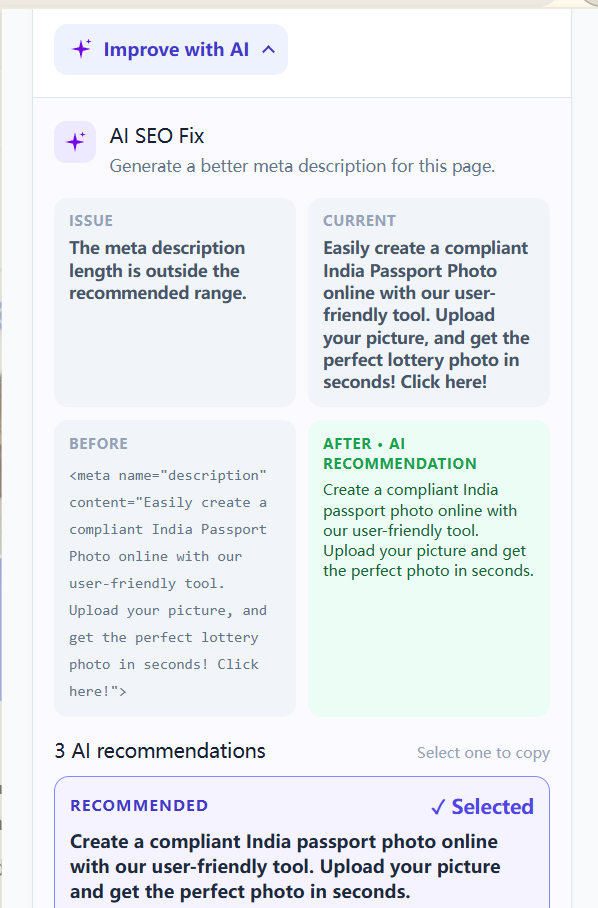
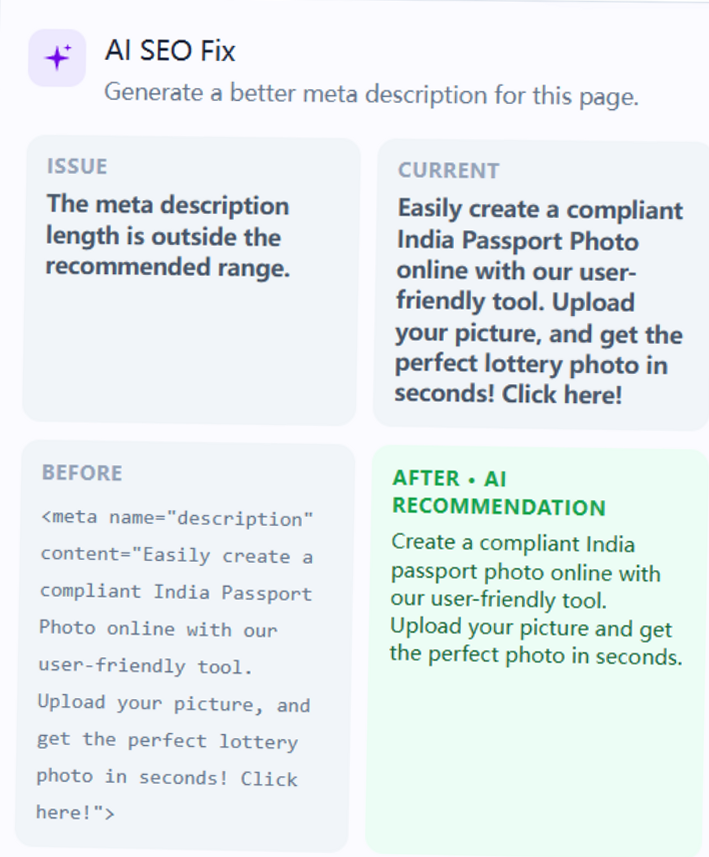
fix: replace homepage proof images

Changed region(s): [[0.0, 0.0, 1.0, 1.0], [0.6923, 0.8191, 0.9331, 0.8495], [0.0602, 0.0607, 0.0903, 0.091]]

diff --git a/website/src/app/(site)/page.tsx b/website/src/app/(site)/page.tsx
@@ -11,9 +11,9 @@ const steps = [['01', 'Scan the page', 'Confirm the active page and get a local 
 export default function Home() {
   const c = getCopy();
   return <main>
-    <section className="hero"><div className="wrap hero-grid"><div className="hero-copy-block"><p className="eyebrow">{c.eyebrow}</p><h1>Find the SEO issues holding your page back.</h1><p className="hero-copy">{c.homeIntro}</p><div className="actions"><StoreCta /><a className="button button-secondary" href="#how-it-works">See how it works</a></div><p className="note">{c.homeSub}</p></div><figure className="product-shot"><Image src="/screenshots/ai-seo-fix.png" alt="SEO Copilot showing an SEO issue and an AI title recommendation" width={598} height={908} priority /><figcaption>Real AI Fix result state</figcaption></figure></div></section>
+    <section className="hero"><div className="wrap hero-grid"><div className="hero-copy-block"><p className="eyebrow">{c.eyebrow}</p><h1>Find the SEO issues holding your page back.</h1><p className="hero-copy">{c.homeIntro}</p><div className="actions"><StoreCta /><a className="button button-secondary" href="#how-it-works">See how it works</a></div><p className="note">{c.homeSub}</p></div><figure className="product-shot"><Image src="/screenshots/ai-seo-fix.png" alt="SEO Copilot showing an SEO issue and an AI title recommendation" width={709} height={857} priority /><figcaption>Real AI Fix result state</figcaption></figure></div></section>
     <section className="section value-section"><div className="wrap"><div className="section-heading"><p className="eyebrow">What you get</p><h2>Useful answers before you change a thing.</h2><p>Start with the page-level signals that affect clarity, crawlability, and search appearance.</p></div><div className="cards value-cards">{[[c.score, 'See a focused 0–100 view of page health.'], [c.issues, 'Understand what is missing and why it matters.'], [c.suggestions, 'Generate title or meta description candidates only when you request them.']].map(([title, body], i) => <article className="card" key={title}><div className="icon">0{i + 1}</div><h3>{title}</h3><p>{body}</p></article>)}</div></div></section>
-    <section className="section product-proof section-soft"><div className="wrap proof-grid"><div className="proof-copy"><p className="eyebrow">See the result</p><h2>Know what to fix, and why.</h2><p>The report keeps the page in context: a score, prioritized issues, and explanations you can act on in your CMS or code.</p><Link className="text-link" href={localizedPath('en', 'features')}>Explore all features <span aria-hidden="true">→</span></Link></div><figure className="proof-shot"><Image src="/screenshots/seo-report.png" alt="SEO Copilot report with score and prioritized page issues" width={1265} height={712} /><figcaption>Page-level SEO report</figcaption></figure></div></section>
+    <section className="section product-proof section-soft"><div className="wrap proof-grid"><div className="proof-copy"><p className="eyebrow">See the result</p><h2>Know what to fix, and why.</h2><p>The report keeps the page in context: a score, prioritized issues, and explanations you can act on in your CMS or code.</p><Link className="text-link" href={localizedPath('en', 'features')}>Explore all features <span aria-hidden="true">→</span></Link></div><figure className="proof-shot"><Image src="/screenshots/seo-report.png" alt="SEO Copilot report with score and prioritized page issues" width={488} height={828} /><figcaption>Page-level SEO report</figcaption></figure></div></section>
     <section className="section" id="how-it-works"><div className="wrap"><div className="section-heading"><p className="eyebrow">How it works</p><h2>{c.how}</h2><p>{c.howIntro}</p></div><div className="steps">{steps.map(([number, title, body]) => <div className="step" key={number}><b>{number}</b><h3>{title}</h3><p>{body}</p></div>)}</div></div></section>
     <section className="section section-soft"><div className="wrap"><div className="section-heading"><p className="eyebrow">Coverage</p><h2>{c.checks}</h2><p>One focused report for the signals visible on the page you choose.</p></div><div className="checks">{coverage.map(item => <div className="check" key={item}><strong>{item}</strong><p>Included in the page-level audit.</p></div>)}</div></div></section>
     <section className="section trust-section"><div className="wrap trust-grid"><div><p className="eyebrow">{c.private}</p><h2>Helpful context, only when you choose.</h2></div><div><p>{c.privateBody}</p><Link className="text-link" href={localizedPath('en', 'privacy')}>Read the privacy policy <span aria-hidden="true">→</span></Link></div></div></section>

diff --git a/website/src/app/(site)/globals.css b/website/src/app/(site)/globals.css
@@ -45,6 +45,10 @@
 
 @media(min-width:801px){.proof-shot{aspect-ratio:1.15;overflow:hidden;border-radius:16px}.proof-shot img{width:100%;height:100%;object-fit:cover;object-position:left center}}
 
+/* Homepage proof panels are intentionally square-on and fully visible. */
+.product-shot{transform:none}
+@media(min-width:801px){.proof-shot{aspect-ratio:auto;overflow:visible}.proof-shot img{height:auto;object-fit:contain;object-position:center}}
+
 /* Language control states: the chevron mirrors the open/closed menu state. */
 .language-button,.language-button[aria-expanded="true"]{color:#25314b}.language-button .globe-icon,.language-button .chevron{color:#34415c}.chevron{display:block;transition:transform .18s ease}.chevron.is-open{transform:rotate(180deg);color:#34415c}
 .install-button{color:#fff}

diff --git a/website/src/app/sitemap.ts b/website/src/app/sitemap.ts
@@ -1,0 +1,11 @@
+import type { MetadataRoute } from 'next';
+import { LOCALES, PATHS, SITE_URL, localizedPath, type Locale } from '@/lib/site';
+
+export const dynamic = 'force-static';
+
+export default function sitemap(): MetadataRoute.Sitemap {
+  return (['en', ...LOCALES] as Locale[]).flatMap((locale) => PATHS.map((path) => ({
+    url: `${SITE_URL}${localizedPath(locale, path)}`,
+    lastModified: new Date('2026-09-02'),
+  })));
+}
